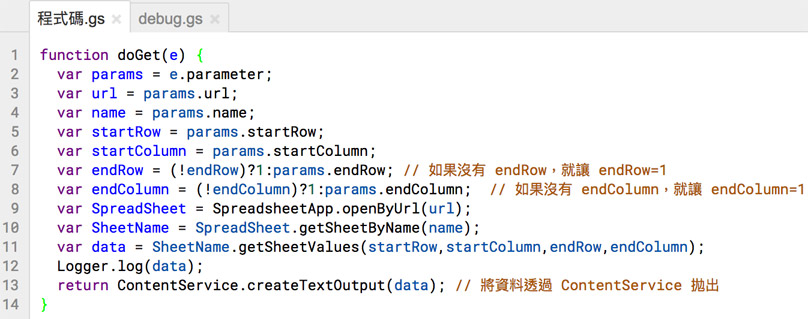
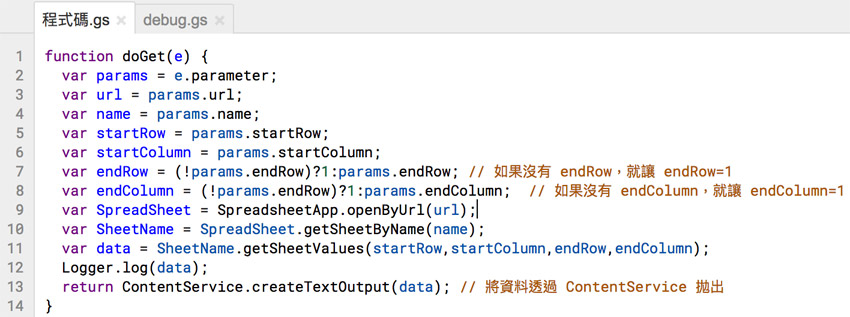
fixed error

diff --git a/articles/201706/google-spreadsheet-3-show-data.html b/articles/201706/google-spreadsheet-3-show-data.html
@@ -96,8 +96,8 @@
   var name = params.name;  
   var startRow = params.startRow; 
   var startColumn = params.startColumn; 
-  var endRow = (!endRow)?1:params.endRow; // 如果沒有 endRow，就讓 endRow=1
-  var endColumn = (!endColumn)?1:params.endColumn;  // 如果沒有 endColumn，就讓 endColumn=1
+  var endRow = (!params.endRow)?1:params.endRow; // 如果沒有 endRow，就讓 endRow=1
+  var endColumn = (!params.endRow)?1:params.endColumn;  // 如果沒有 endColumn，就讓 endColumn=1
   var SpreadSheet = SpreadsheetApp.openByUrl(url);
   var SheetName = SpreadSheet.getSheetByName(name);
   var data = SheetName.getSheetValues(startRow,startColumn,endRow,endColumn);
